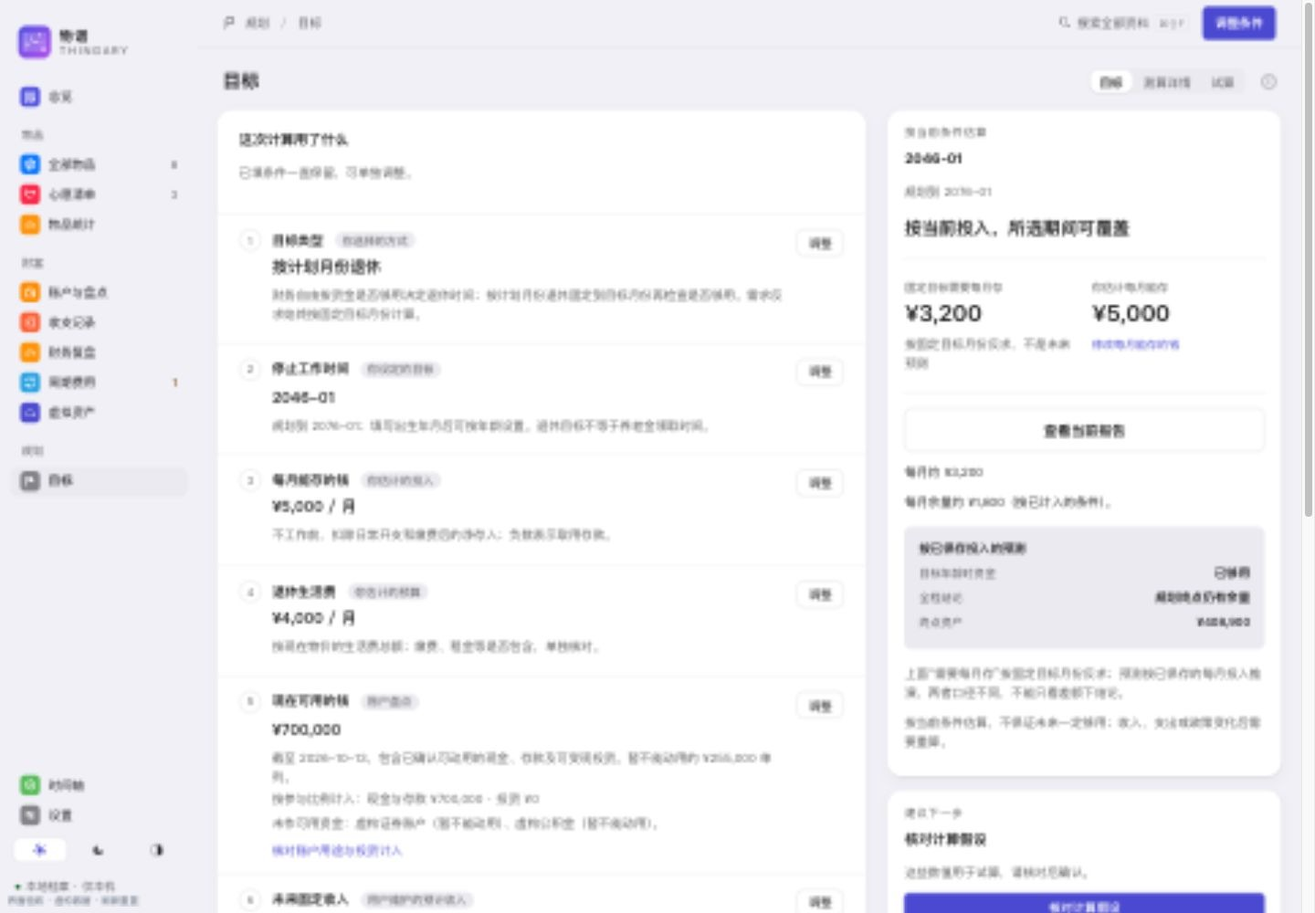
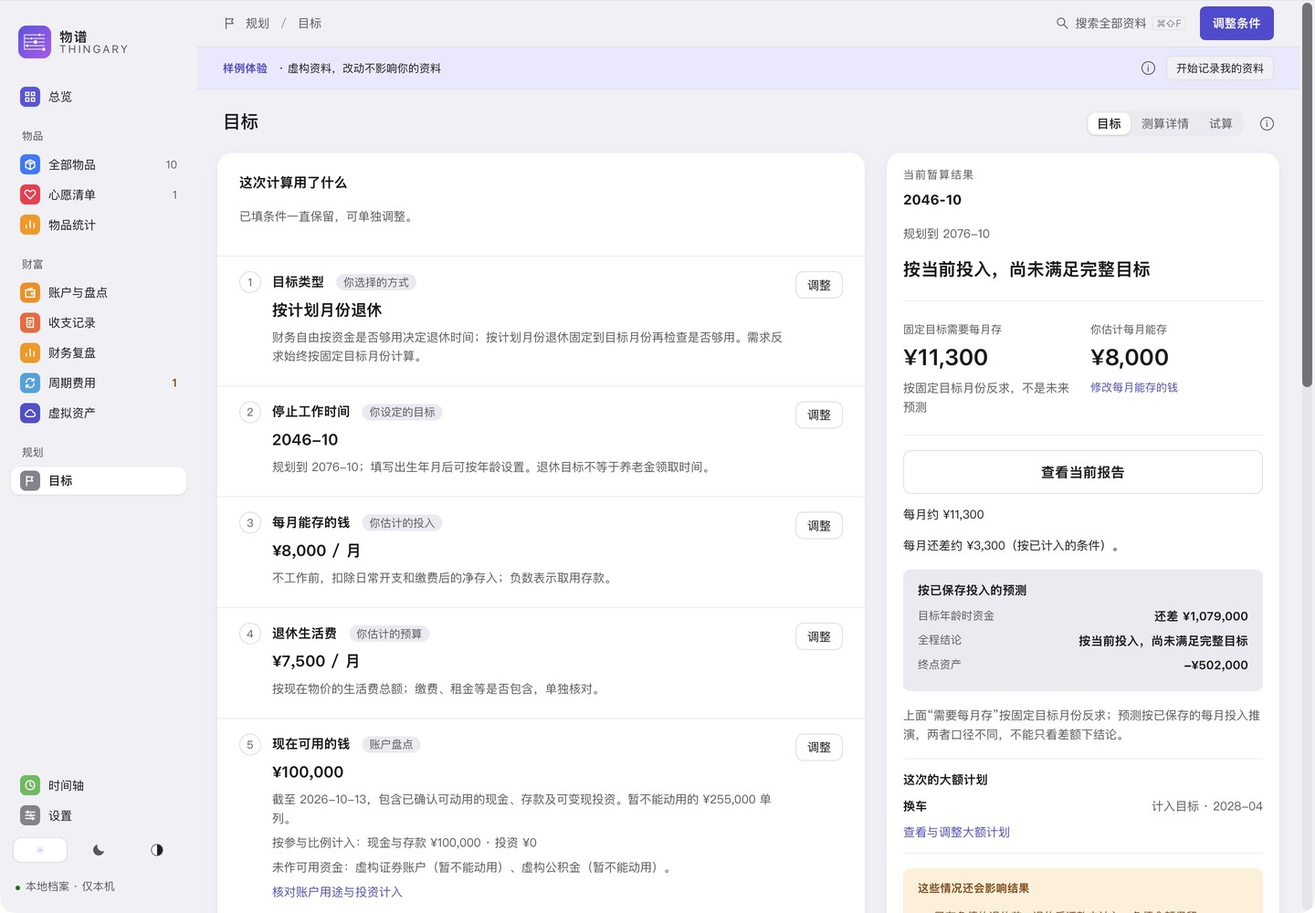
release: prepare Thingary 0.0.4 beta draft
Refresh positioning/navigation media from an isolated native app at 1440x1000,
including the 12-second navigation GIF, and record actual sample conditions.
Fix the stretched sample info icon and disabled-module attention read errors.
Add transaction rollback/retry coverage for schema 36->37 and 37->38.

Validation: npm run build; npm run test:ui (1059 pass); npm run check;
npm test (578 pass, 3 existing capacity tests ignored). Native isolated
v0.0.3/schema35 -> 0.0.4/schema39 direct upgrade, restart, old full backup
restore and restart preserve all 50 old fact tables/236 rows and image hashes.
Fresh isolated native record/account/snapshot/full-backup/restore/restart pass.
DMG read-only mount and copied bundle match the original, strict signatures
pass; offline guide images/anchors and license coverage pass. Main data was
never opened and the formal identity bundle was never launched.

Unverified: real-download Gatekeeper first launch, other Macs/OS versions,
Intel, VoiceOver, full keyboard/input-method matrix, notifications delivery,
and all added native interaction combinations. Draft is not public.

diff --git a/src/app-layout.css b/src/app-layout.css
@@ -5,7 +5,7 @@ button{border-radius:6px;font-weight:400}.primary{font-weight:600}.shell{grid-te
 .sidebar{padding:28px 12px 18px;gap:0;overflow-y:auto}.brand{padding:0;margin:0 8px 27px;gap:9px}.brand-mark{width:31px;height:31px;border:0;border-radius:10px;background:var(--text);color:var(--bg)}.brand-mark .ui-icon{width:21px;height:21px}.brand strong{font-size:15px;letter-spacing:1px;font-weight:600}.brand small{display:block;font:12px var(--display);letter-spacing:2px;margin-top:-3px}
 .sidebar nav{display:flex;flex-direction:column;gap:3px}.sidebar nav button{padding:8px 11px;gap:10px;font-size:13px;background:transparent;line-height:1.6;flex-shrink:0}.sidebar nav button:hover:not(:disabled){background:var(--soft)}.sidebar nav button.nav-active{background:var(--selected);color:var(--accent);font-weight:600}.nav-caption{margin:15px 12px 4px;color:var(--muted);font-size:12px;letter-spacing:1.1px}.sidebar-bottom{padding:0;margin-top:auto;padding-top:25px}.local-status{font-size:12px;white-space:normal;margin:12px 0 0;padding:0 5px}.local-dot{width:5px;height:5px;background:var(--positive)}
 .shell>main{padding:0;overflow:auto;min-width:0}.shell main :focus{scroll-margin-top:76px;scroll-margin-bottom:20px}.app-topbar{position:sticky;top:0;z-index:3;background:var(--bg);height:52px;min-height:52px;margin:0;padding:0 28px;border-bottom:1px solid var(--line);display:flex;align-items:center;justify-content:space-between;gap:12px}.breadcrumb{font-size:13px;white-space:nowrap;color:var(--muted);display:flex;align-items:center;gap:9px}.breadcrumb>span{opacity:.6}.topbar-actions{display:flex;align-items:center;gap:9px;min-width:0}.topbar-actions>.primary{display:flex;align-items:center;gap:6px;white-space:nowrap;font-size:13px;padding:7px 13px;line-height:1.6}.topbar-actions .topbar-secondary{display:flex;align-items:center;gap:6px;white-space:nowrap;font-size:13px;padding:7px 13px;line-height:1.6}.topbar-actions kbd{border:1px solid var(--line);border-radius:3px;padding:0 4px;font-size:12px;margin:0}.topbar-actions .search{width:200px;min-width:120px;flex:initial;background:var(--soft);border:1px solid var(--line);border-radius:6px;padding:5px 9px;gap:7px}.search .ui-icon{width:14px;height:14px;color:var(--muted)}.topbar-actions .search input{padding:0;font-size:13px;line-height:1.6}.search kbd{border:1px solid var(--line);border-radius:3px;padding:0 4px;font-size:12px;margin:0}.search input:focus-visible{outline-offset:1px;outline-width:2px}.search-clear{display:flex;align-items:center;justify-content:center;width:20px;height:20px;padding:0;border:0;background:transparent;color:var(--muted);flex-shrink:0}.search-clear svg{width:12px;height:12px}.search-clear:hover{color:var(--text)}.search-collapsed{display:none}
-.demo-banner{display:flex;align-items:center;gap:12px;flex-wrap:wrap;padding:9px 28px;background:var(--selected);border-bottom:1px solid var(--line);font-size:12px;flex-shrink:0}.demo-banner strong{color:var(--accent);white-space:nowrap}.demo-banner span{flex:1;min-width:180px}.demo-banner button{padding:5px 10px;background:var(--bg);border:1px solid var(--line);font-size:12px;white-space:nowrap}
+.demo-banner{display:flex;align-items:center;gap:12px;flex-wrap:wrap;padding:9px 28px;background:var(--selected);border-bottom:1px solid var(--line);font-size:12px;flex-shrink:0}.demo-banner strong{color:var(--accent);white-space:nowrap}.demo-banner>span:not(.info-tip){flex:1;min-width:180px}.demo-banner>.info-tip{flex:none;min-width:15px;margin-left:0}.demo-banner button{padding:5px 10px;background:var(--bg);border:1px solid var(--line);font-size:12px;white-space:nowrap}
 .page-header{padding:22px 28px 14px;margin:0;justify-content:flex-start;align-items:baseline;gap:12px}.page-header h1{font:600 20px/1.3 var(--display);letter-spacing:var(--h-track,0)}.page-meta{color:var(--muted)}
 .asset-overview{display:grid;grid-template-columns:1fr 1.5fr 1fr;border:1px solid var(--line);border-radius:10px;margin:0 28px 24px;padding:17px 0;background:var(--bg)}.asset-overview>div{padding:0 22px;min-width:0}.asset-overview>div+div{border-left:1px solid var(--line)}.asset-overview span{font-size:12px;color:var(--muted)}.asset-overview strong{display:block;margin:5px 0;font:500 20px/1.3 var(--display);letter-spacing:-.5px;font-variant-numeric:tabular-nums;overflow-wrap:anywhere}.asset-overview strong small{font:12px 'PingFang SC',sans-serif;color:var(--muted);margin-left:6px;letter-spacing:0}.asset-overview p{font-size:12px;color:var(--muted);margin:5px 0 0}
 .browser-columns{display:grid;grid-template-columns:minmax(0,1fr) 288px;gap:0;border-top:1px solid var(--line);min-height:450px}.collection{min-width:0;overflow-anchor:none}.collection-toolbar{display:flex;justify-content:space-between;gap:8px;align-items:center;padding:15px 24px 13px}.view-controls{display:flex;align-items:center;gap:8px}.segmented{padding:0;gap:3px;border:0;border-radius:0;background:transparent}.segmented button{padding:5px;width:26px;height:26px;border-radius:6px;color:var(--muted)}.segmented [aria-pressed=true]{background:var(--soft);color:var(--text)}

diff --git a/src/ReviewView.tsx b/src/ReviewView.tsx
@@ -14,7 +14,7 @@ import type { FinanceRoute } from './finance-navigation';
 import type { PlanningTab } from './PlanningPage';
 import { useRestored } from './undo';
 import { ReviewPlanSummary } from './ReviewPlanSummary';
-import { attention, latestComplete, rangePoints, rangeUsable, ready, recallTrendRange, rememberTrendRange, requestGate, structureCompareRange, structureRows, trendRanges } from './review';
+import { attention, attentionSourcesReady, latestComplete, rangePoints, rangeUsable, ready, recallTrendRange, rememberTrendRange, requestGate, structureCompareRange, structureRows, trendRanges } from './review';
 import type { Read, Review, ReviewPage, TrendRange } from './review';
 import { Info } from './FormControls';
 import { DailyCostMetric } from './DailyCostMetric';
@@ -181,8 +181,8 @@ export function ReviewView({ generation, today, version, year, onYear, onNavigat
     <div className="review-lists">
       <article className="ui-card">
         <div className="ui-section-head"><h3>待关注</h3><span className="ui-aside">{groups.length ? `${groups.length} 项` : ''}<Info text="只列出需要你确认或即将到期的事项；不会自动付款。"/></span></div>
-        {[data.wealth, data.recurring, data.virtual_assets].some(src => src.status === 'error') && <div className="ui-error" role="alert">部分来源读取失败，事项可能不完整。<button onClick={reload}>重试</button></div>}
-        {!groups.length ? <p className="ui-empty">{[data.wealth, data.recurring, data.virtual_assets].every(src => src.status === 'ready') ? '暂时没有需要关注的事项。' : '可用来源中暂无事项。'}</p> : <ul className="ui-rows">{groups.slice(0, 5).map(g => <li key={g.id} className="ui-row"><span className={'ui-dot' + (g.priority <= 1 ? ' warn' : '')}/><div className="ui-main"><div>{g.title}</div>{g.details.map(d => <small key={d}>{d}</small>)}</div><span className="review-links">{g.entries.map((entry, i) => <button key={i} className="ui-link" onClick={() => onOpenSource(entry.target)}>{entry.action} →</button>)}</span></li>)}</ul>}
+        {!attentionSourcesReady(data, modules) && <div className="ui-error" role="alert">部分来源读取失败，事项可能不完整。<button onClick={reload}>重试</button></div>}
+        {!groups.length ? <p className="ui-empty">{attentionSourcesReady(data, modules) ? '暂时没有需要关注的事项。' : '可用来源中暂无事项。'}</p> : <ul className="ui-rows">{groups.slice(0, 5).map(g => <li key={g.id} className="ui-row"><span className={'ui-dot' + (g.priority <= 1 ? ' warn' : '')}/><div className="ui-main"><div>{g.title}</div>{g.details.map(d => <small key={d}>{d}</small>)}</div><span className="review-links">{g.entries.map((entry, i) => <button key={i} className="ui-link" onClick={() => onOpenSource(entry.target)}>{entry.action} →</button>)}</span></li>)}</ul>}
         {groups.length > 5 && <p className="ui-card-foot">还有 {groups.length - 5} 项，请在对应模块查看。</p>}
       </article>
       <article className="ui-card">

diff --git a/src/review.ts b/src/review.ts
@@ -12,6 +12,12 @@ export type Read<T> = { status: 'ready'; value: T } | { status: 'error'; value: 
 export type Review = { generation: string; today: string; year: number | null; physical: Read<OverviewData>; wealth: Read<Summary>; expenses: Read<ExpenseView>; recurring: Read<Recurring>; virtual_assets: Read<VirtualOverview>; recent: Read<TimelineEvent[]>; planning?: PlanSources | null };
 export type ReviewPage = 'wealth' | 'assets' | 'expenses' | 'recurring' | 'virtual' | 'timeline';
 export const ready = <T,>(r: Read<T> | undefined): T | undefined => r?.status === 'ready' ? r.value : undefined;
+/** Disabled modules are intentionally unread; only enabled attention sources can fail. */
+export function attentionSourcesReady(review: Review, modules: Modules = allModules): boolean {
+  return (!modules.wealth || review.wealth.status === 'ready')
+    && (!modules.recurring || review.recurring.status === 'ready')
+    && (!modules.virtual || review.virtual_assets.status === 'ready');
+}
 export const overviewView = (value: string | null) => value === 'physical' ? 'physical' : 'combined';
 export function latestComplete(points: Point[]) { return points.filter(p => p.complete).at(-1); }
 

diff --git a/src-tauri/tests/helpers/planning_migration.rs b/src-tauri/tests/helpers/planning_migration.rs
@@ -706,3 +706,124 @@ fn schema36_income_receipts_upgrade_and_backup_preserve_original_facts() {
     assert_eq!(replay.revision, row.revision);
     assert!(!replay.classification_changed);
 }
+
+fn assert_incremental_migration_rolls_back_then_retries(version: i64) {
+    let d = tempfile::tempdir().unwrap();
+    let root = d.path().join("fictional");
+    let (s, _) = seed(&root);
+    let profile = serde_json::to_value(s.plan_profile().unwrap().saved.unwrap().profile).unwrap();
+    let stage = d.path().join("old");
+    snapshot_db(&s, &stage, &profile, 36);
+    let c = Connection::open(stage.join("data.sqlite")).unwrap();
+    migrate_to(&c, version, &|_| Ok(())).unwrap();
+    let files = dataset(&root).join("files");
+    let before = manifest(&c, &files);
+    let profile_before: (String, i64, String) = c
+        .query_row(
+            "SELECT payload,revision,updated_at FROM plan_profile",
+            [],
+            |r| Ok((r.get(0)?, r.get(1)?, r.get(2)?)),
+        )
+        .unwrap();
+    let schema = |c: &Connection| {
+        c.prepare("SELECT type,name,tbl_name,sql FROM sqlite_master ORDER BY type,name")
+            .unwrap()
+            .query_map([], |r| {
+                Ok((
+                    r.get::<_, String>(0)?,
+                    r.get::<_, String>(1)?,
+                    r.get::<_, String>(2)?,
+                    r.get::<_, Option<String>>(3)?,
+                ))
+            })
+            .unwrap()
+            .collect::<Result<Vec<_>, _>>()
+            .unwrap()
+    };
+    let schema_before = schema(&c);
+    assert!(migrate_to(&c, version + 1, &|point| {
+        if point == "migration.before_commit" {
+            Err(Error::new("INJECTED", "虚构迁移提交前中断"))
+        } else {
+            Ok(())
+        }
+    })
+    .is_err());
+    assert_eq!(
+        c.query_row("PRAGMA user_version", [], |r| r.get::<_, i64>(0))
+            .unwrap(),
+        version
+    );
+    // Exact DDL equality includes rollback of every new table, index and income column.
+    assert_eq!(schema(&c), schema_before);
+    assert_eq!(manifest(&c, &files), before);
+    assert_eq!(
+        c.query_row(
+            "SELECT payload,revision,updated_at FROM plan_profile",
+            [],
+            |r| {
+                Ok((
+                    r.get::<_, String>(0)?,
+                    r.get::<_, i64>(1)?,
+                    r.get::<_, String>(2)?,
+                ))
+            }
+        )
+        .unwrap(),
+        profile_before
+    );
+    migrate_to(&c, version + 1, &|_| Ok(())).unwrap();
+    assert_eq!(
+        c.query_row("PRAGMA user_version", [], |r| r.get::<_, i64>(0))
+            .unwrap(),
+        version + 1
+    );
+    assert_eq!(manifest(&c, &files), before);
+    assert_eq!(
+        c.query_row(
+            "SELECT payload,revision,updated_at FROM plan_profile",
+            [],
+            |r| {
+                Ok((
+                    r.get::<_, String>(0)?,
+                    r.get::<_, i64>(1)?,
+                    r.get::<_, String>(2)?,
+                ))
+            }
+        )
+        .unwrap(),
+        profile_before
+    );
+    let new_table = if version == 36 {
+        "investment_flows"
+    } else {
+        "plan_assumption_checks"
+    };
+    assert_eq!(
+        c.query_row(&format!("SELECT COUNT(*) FROM {new_table}"), [], |r| {
+            r.get::<_, i64>(0)
+        })
+        .unwrap(),
+        0
+    );
+    if version == 36 {
+        let invalid_defaults: i64 = c
+            .query_row(
+                "SELECT COUNT(*) FROM plan_income WHERE category!='unclassified' OR source_account_id IS NOT NULL OR destination IS NOT NULL OR receiving_account_id IS NOT NULL OR classification_changed!=0",
+                [],
+                |r| r.get(0),
+            )
+            .unwrap();
+        assert_eq!(invalid_defaults, 0);
+    }
+}
+
+#[test]
+fn schema36_to37_before_commit_rolls_back_all_facts_and_schema_then_retries() {
+    assert_incremental_migration_rolls_back_then_retries(36);
+}
+
+#[test]
+fn schema37_to38_before_commit_rolls_back_all_facts_and_schema_then_retries() {
+    assert_incremental_migration_rolls_back_then_retries(37);
+}

diff --git a/docs/releases/v0.0.4.md b/docs/releases/v0.0.4.md
@@ -1,0 +1,48 @@
+# 物谱 0.0.4 Beta · 测试版草稿
+
+本版准备为 GitHub **draft Pre-release**，尚未公开。维护者确认后再开放附件下载；目前普通用户仍使用 [0.0.3](https://github.com/CoderJackZhu/Thingary/releases/tag/v0.0.3)。
+
+## 下载与支持范围
+
+公开后在 [v0.0.4 Release](https://github.com/CoderJackZhu/Thingary/releases/tag/v0.0.4) 的 Assets 下载 `Thingary-0.0.4-arm64.dmg`。包内有「物谱.app」、Applications 快捷方式、图文离线指南和完整许可材料；`SHA256SUMS.txt` 用于完整性校验，Source code 是源码。
+
+仅提供 **Apple Silicon Mac** 安装包，只在 macOS 27 实测。最低打包目标为 macOS 14，其他系统、Intel 与其他 Mac 未验。采用本地临时签名，**未经过 Developer ID 签名和 Apple 公证**；真实下载后的 Gatekeeper 首开未验。安装与更新见[使用指南](https://github.com/CoderJackZhu/Thingary/blob/v0.0.4/docs/USER_GUIDE.md#download)。
+
+## 本次更新
+
+- **物品与起步**：物品侧栏收为全部物品、心愿清单和物品统计，状态在列表切换。新增首屏只保留名称、价格、日期、备注和图片，补充资料按需展开；购买日期默认未知。首次使用可独立选择整理物品或盘点账户，明确选择后才隐藏辅助模块；无账户时可直接进入已有表格导入。修复样例说明图标被横幅拉宽的问题。
+- **财富记录与复盘**：账户与盘点、收支记录、财务复盘各有入口；实际收入和资金流动独立于目标开关。收入可分类，投资区间核对区分转入／转出与损益金额，未知不当作零，分红不重复计入。不提供证券账本、行情或收益率。
+- **通用规划**：退出地区社保、医保及养老金待遇测算，改用目标月份、生活预算、资金起点和未来收入。官方复杂测算保留工具入口，外部测算结果可手填为未来收入；公积金、个人养老金账户和实际收入保留。市场模拟、压力测试和深入分析继续提供。
+- **目标、详情与试算**：页内分为目标、测算详情和试算。目标保留已保存条件与结论；详情集中轨迹和快照；试算提供心愿影响、职业变化及资金续航。试算不改保存条件，心愿不自动计入目标。新增假设核对与可选流动明细来源，沿用确认失效及回执约束。
+- **只读报告与交互**：当前报告默认隐私，可切换完整数值和复制摘要，在结论旁显示影响事项数量；关闭不保存报告。改进条件提示、职业复选框间距、来源返回及财富未知保存结果的重启核对入口。周期付款和复盘来源分页不改变全量汇总；关闭辅助模块后不再把未读取来源误报为读取失败。
+
+## 更新与资料兼容
+
+更新前先做完整备份并异地保存，退出旧包，再手动替换应用。正式资料身份保持 `local.thingary.main`；本轮验收始终使用全新隔离身份，未启动正式身份包或访问正式资料库。
+
+数据库从 0.0.3 的 **schema 35** 升至 **39**：36 退出旧政策输入，37 增加收入分类与投资区间核对，38 增加假设确认，39 增加资金流动及复盘来源。物品、心愿、账户、盘点、实际收入、金额、未知值、稳定 ID、关联、图片和保障保留。旧政策规划的月份与未来收入需重新确认，不把旧年龄／待遇选择自动当成通用规划确认；有语义变化的规划修订递增，原更新时间及历史回执保留。
+
+**旧版不能直接打开已升级资料或新版备份。** 降低应用版本号不会降低数据格式；回退必须使用升级前、与旧版兼容的完整备份。恢复是整体替换，不是合并；Excel 不包含全部图片与关系，不能替代完整备份。
+
+本轮从 `v0.0.3` 标签源码构建隔离旧包，由原生应用生成内置虚构样例，再复制到同身份的空个人库作为兼容夹具。旧包原生保存完整备份后，依次验证新包直接升级、重启、原生选择并恢复旧完整备份及恢复后重启。50 张旧事实表的 236 行全部原字段保持；8 个原图及 16 个缓存图片散列一致，旧备份字节未变。直接升级保持资料集 ID 与 generation，恢复按现行设计更换二者；外键和数据库完整性检查通过。新确认、资金流动与投资来源表为空，没有自动生成确认或交易。
+
+## 验证与限制
+
+本轮运行前端构建、**1,059 项 UI 测试**、Rust 格式／Clippy 和 **578 项 Rust 测试**；3 项既有容量测试按原规则忽略。增加 36→37、37→38 提交前故障回滚与重试测试，结合既有 35→36、38→39、旧 schema35 备份恢复及新备份往返测试覆盖迁移边界。自动检查不替代原生交互。
+
+截图使用全新隔离身份的真实 WebView 与内置虚构样例，来源和捕获尺寸见[截图清单](https://github.com/CoderJackZhu/Thingary/blob/v0.0.4/docs/images/README.md)。本轮原生走查通过首次样例、切换空个人库、表单取消、仅名称物品保存（价格／日期未知）、新建现金账户、10,000 元完整盘点、手动完整备份及恢复、重启保留。隐藏辅助模块后的总览提示和样例说明图标已在最终包原生复验。
+
+正式包的 0.0.4 版本、正式身份、纯 arm64 与严格签名通过静态核验；只读挂载包、原始构建包与临时复制包的全部文件及符号链接一致。离线指南 17 个图片元素与 13 个内部链接检查通过，许可全文覆盖 297 项清单记录，来源散列核验通过；包内没有数据库、备份、测试资料或凭据。核验未启动正式身份包。
+
+VoiceOver、完整键盘／输入法组合、系统通知送达、其他 Mac／系统和真实下载首开未验；全部新增功能的原生完整交互尚未闭环。资料及备份未加密，无跨设备同步、自动更新、交易或自动付款。规划与模拟是假设测算，路径占比不代表现实成功概率；详见[当前限制](https://github.com/CoderJackZhu/Thingary/blob/v0.0.4/docs/USER_GUIDE.md#limits)。
+
+代码按 GPL-3.0-or-later 授权，名称与图标使用权保留。对应源码、锁文件及构建脚本由同标签 Source code 提供，第三方告知与许可全文随 DMG 提供。问题请用虚构资料提交 [Issue](https://github.com/CoderJackZhu/Thingary/issues)；安全问题按[安全政策](https://github.com/CoderJackZhu/Thingary/blob/v0.0.4/SECURITY.md)私下报告。
+
+## 校验散列
+
+安装包：`Thingary-0.0.4-arm64.dmg`。
+
+- 文件大小：**15,509,995 字节**（约 14.79 MiB）。
[1 lines of base64/hex data omitted]
+
+SHA-256 只证明完整性，不是来源认证签名。

diff --git a/docs/images/README.md b/docs/images/README.md
@@ -2,25 +2,25 @@
 
 ## 当前定位与导航截图
 
-2026-10-13 按[定位、导航与首次使用设计](../POSITIONING_NAVIGATION_DESIGN.md)更新下表图片。源码基线为 `main / 9de8af2`（第 1–6 步交互已提交，第 7 步只同步文档与媒体），没有推送或发布新包。
+2026-10-13 为 0.0.4 草稿测试版重新拍摄下表全部 8 张 JPEG、报告 PNG 与 GIF。界面基线为 `3fb3f8c2550cc9c8298b54d1867dd91f510b2f2b` 加本版样例说明图标与关闭模块错误提示修正；对应源码以 `v0.0.4` 标签为准。草稿尚未公开。
 
-这些图片来自 **Codex 内置浏览器的内存虚构预览**，不读取任何原生资料库，不证明原生保存、系统文件或完整无障碍验收。Ego Lite 页面操作可用，但其截图及备用 Chrome CDP 截图接口超时，因此截图改用内置浏览器。JPEG 为实际 **1440×1000 CSS 像素**视口捕获后直接转换，未拼改界面、文字或数字；浅色／深色使用 Bento。报告 PNG 为 1280×720。
+这些图片来自 **真实 macOS 原生 WebView**，用电脑操控工具捕获。全新身份为 `local.thingary.release004.screens20261013`，不使用 `local.thingary.main` 或已有个人资料。样例由应用内置虚构样例库生成：10 件物品、5 个在用账户，2026-10-13 完整盘点金融净资产 350,000 元。保留 2 件金额未知、5 项规划条件待确认，以及报告的 6 项影响事项，不伪造确认或计算结果。
 
-公共复现入口为 `npm run dev -- --port 1429` 后的 `/visual-preview.html`；以下列出全部查询参数。总览视图在页面上明确选择“综合”。所有金额、日期和未知均保留夹具的真实展示与纯计算结果。
[1 lines of base64/hex data omitted]
 
-| 当前文件 | 查询参数／实际状态 |
+| 当前文件 | 实际原生状态／操作 |
 |---|---|
-| `overview-light.jpg`、`overview-dark.jpg` | `section=overview&plan-basic=saved&capabilities=real&plan-core=confirmed&style=bento&theme=light|dark`；综合总览、已保存目标与单一紧凑说明 |
-| `assets-light.jpg` | `section=assets&style=bento&theme=light`；全部物品，侧栏三入口、列表状态分段，价格／日期未知保留 |
-| `first-item-form.jpg` | 同上，点新增物品；填虚构“我的笔记本电脑”、价格 5000，日期留空、补充更多收起；拍后关闭不保存 |
-| `planning-goals.jpg` | `section=planning&plan-basic=saved&capabilities=real&plan-core=confirmed&style=bento&theme=light`；目标标签、已保存条件与结论、大额计划 |
-| `planning-detail.jpg` | 同上，切到测算详情；需求、轨迹与详情内容，不去除缺项或假设提示 |
-| `planning-trial.jpg` | 同上，切到试算；心愿影响、职业入口和临时资金续航 |
-| `start-choice.jpg` | `section=overview&started=first-use&state=empty&wealth=empty&style=bento&theme=light`；未开始虚构资料，辅助模块复选框默认勾选 |
-| `planning-report-current.png` | `section=planning&plan-basic=saved&capabilities=real&plan-core=partial&style=bento&theme=light`；打开当前报告，默认隐私，结论旁保留 1 项影响事项提示 |
-| `overview-to-goals.gif` | 与浅色总览相同的一次页面操作：总览 → 侧栏账户与盘点 → 侧栏目标。三张实际截图各停留 4 秒，总长 **12 秒**；是内存虚构页面演示，不是原生盘点保存录像 |
+| `overview-light.jpg`、`overview-dark.jpg` | 内置样例、综合总览；依次选浅色／深色，单一紧凑说明与圆形说明图标 |
+| `assets-light.jpg` | 样例全部物品；侧栏三入口、列表状态分段、价格／日期未知保留 |
+| `first-item-form.jpg` | 切到同身份全新空个人库，点“先整理物品”；虚构“我的笔记本电脑”、价格 5000，日期留空、补充更多收起；拍后关闭不保存 |
+| `planning-goals.jpg` | 内置样例的目标标签，已保存条件、暂算结论及大额计划，未核对条件保留 |
+| `planning-detail.jpg` | 同样例切到测算详情；需求与轨迹，保留假设及待核对提示 |
+| `planning-trial.jpg` | 同样例切到试算；心愿影响、职业入口、临时资金续航 |
+| `start-choice.jpg` | 切到同身份全新空个人库；两条起步路径，辅助模块复选框默认勾选；在首次表单前拍摄 |
+| `planning-report-current.png` | 同样例打开当前报告，默认隐私；结论旁实际显示 6 项影响事项 |
+| `overview-to-goals.gif` | 同一原生样例中操作：综合总览 → 账户与盘点 → 目标。三张实际截图各停留 4 秒，总长 **12 秒**；是真实页面操作三帧演示，不是盘点保存录像 |
 
-同尺寸前后对照及物品正常／空白／筛选无结果／读取失败、规划未设置／已设置／投入未知／读取失败／待确认回执、宽窄明暗和复选框键盘焦点的完整证据另存维护者档案。公开目录仅保留使用指南需要的图片。
+原图、逐张界面状态、文件散列和发布验收记录另存维护者档案。公开目录只保留使用指南需要的图片。下列历史原生图未在本次重拍，涉及旧入口时以当前正文与上表为准。
 
 ## 保留的原生截图
 

diff --git a/CHANGELOG.md b/CHANGELOG.md
@@ -2,16 +2,19 @@
 
 用户下载见 [Releases](https://github.com/CoderJackZhu/Thingary/releases)，操作和更新见[使用指南](docs/USER_GUIDE.md)。这里记录用户可感知的变化，开发执行流水另存维护者档案。
 
-## 当前源码与本机更新 — 尚未另行公开发布
+## 0.0.4 Beta — 2026-10-13（草稿，未公开）
+
+本版准备为 GitHub draft Pre-release，待维护者确认后公开；目前普通用户仍下载 0.0.3。验证与升级兼容边界见[0.0.4 发布说明](docs/releases/v0.0.4.md)。
 
 - 物品侧栏收为全部物品、心愿清单与物品统计；使用中、已退役和已售出改在列表工具栏切换，保障条件在筛选中选择。切换状态保留分类、标签、搜索与排序，资料待补充筛选与状态互斥，标题和详情返回保持一致。
 - 规划页内分为“目标／测算详情／试算”：目标保留已保存条件、结论与大额计划；测算详情展示轨迹、快照和风险；试算集中提供心愿影响、职业变化与资金续航。心愿只比较影响，不自动计入目标，临时试算不改保存的条件。
 - 自己的资料尚未开始时，总览提供整理物品或盘点账户两个起点；可明确选择先隐藏周期费用与虚拟资产，其余模块保留当前设置。无账户时优先提供已有资产表格导入，沿用设置的数据管理对话框；样例横幅收为简短说明与完整规则入口。
 - 新增物品首屏保留名称、价格、日期、备注与图片，分类、渠道、成本、保障和品牌型号等统一放入“补充更多”；已有补充资料和折叠内校验错误自动展开。新建购买日期默认留空，心愿转购入仍默认今天。
 - 当前报告在结论旁提示影响事项数量；目标摘要合并重复声明，账户比较、暂时取不出的钱与计划实际发生核对改用直接文案。职业试算确认复选框复用现有布局，改善焦点与文字间距。
+- 修复样例横幅说明图标被拉宽，以及关闭辅助模块后总览把未读取来源误报为读取失败；已启用来源的真实读取失败仍保留。
 
 - 规划改用通用目标时间、生活预算、资金起点与未来收入。删除地区社保、医保、缴费与待遇估算，保留官方工具入口；用户可把外部测算结果作为未来月收入维护。市场模拟与假设分析继续保留。
-- schema 36/37 升级保留物品、账户、盘点、个人养老金／公积金资产及实际收入等客观事实，退出旧政策输入；旧政策计划需要按通用模型重新确认。旧版应用不能直接打开升级后的资料，回退须使用兼容的升级前备份。
+- 数据库从 0.0.3 的 schema 35 升至 39。schema 36/37 保留物品、账户、盘点、个人养老金／公积金资产及实际收入等客观事实，退出旧政策输入；旧政策计划需要按通用模型重新确认。schema 38/39 增加假设核对与资金流动，不自动生成确认或交易。旧版应用不能直接打开升级后的资料，回退须使用兼容的升级前备份。
 - 实际收入支持来源分类；投资复盘通过区间转入／转出核对区分资金流动与损益，未知不当作零，分红不会重复加到资产或损益。
 - 规划新增四字段假设核对；可选资金流动可作为投资区间核对来源，与手填互斥，保留原有确认、失效与回执规则。
 - 财富下统一为账户与盘点、收支记录（收入／重要支出／资金流动）、财务复盘（本期复盘／盘点比较）三个入口，规划仅保留目标；收入与资金流动改为独立于目标的模块开关，旧设置按原目标开关一次性继承。复盘先显示结果、详细依据按需展开。逐年快照横跨内容区，窗口默认最大1600×1000并记住普通尺寸。

diff --git a/docs/DEVELOPMENT.md b/docs/DEVELOPMENT.md
@@ -34,6 +34,12 @@ npm test
 
 故障注入 feature 只用于测试，不进入普通应用。检查结果按本次实际执行登记；测试文件存在、历史通过或源码提交不代表当前工作树已通过。文案／样式核对受影响页面与断点；表单验证保存、取消、未知与失败；计算运行对应数值和调用链回归。纯文档检查链接、锚点、术语和离线交付依赖。
 
+### 0.0.4 草稿发布验证
+
+本轮构建、1,059 项 UI 测试、格式／Clippy 和 578 项 Rust 测试通过，3 项既有容量测试按原规则忽略。新增 36→37、37→38 提交前故障回滚与重试测试；总览待关注的来源完整性只检查已启用模块，回归覆盖隐藏来源及已启用来源真实失败。样例横幅说明图标的拉伸已修正并原生复验。
+
+全新隔离身份完成 v0.0.3 原生生成虚构资料、schema35→39 直接升级、重启、旧完整备份原生恢复及恢复后重启；50 张旧事实表、236 行旧字段与 8 个原图／16 个缓存图片一致。另完成样例→空个人库→取消／保存物品→账户→完整盘点→手动备份／恢复→重启保留，未知金额和日期保持为空。发布截图为真实原生捕获，来源见[截图清单](images/README.md)。完整键盘／输入法、VoiceOver、其他系统、通知送达和下载后 Gatekeeper 首开仍未验；交付状态见[0.0.4 说明](releases/v0.0.4.md)。未启动正式身份包或访问正式库。
+
 ### 定位、导航与首次使用验证
 
 [定位与导航设计](POSITIONING_NAVIGATION_DESIGN.md)的七步已在当前源码实施，不改变 schema、备份／Excel、模块默认值或计算口径。物品状态分段与标题回归在 `collection-navigation`；规划视图、修正聚焦与阻断在 `planning-detail-navigation`／`planning-current-report`；起步载荷、存储失败及总览视图意图消费在 `start-choice`；表单折叠与默认空日期在 `asset-editor-layout`；来源返回在 `planning-source-navigation`。每步分别运行构建、UI、格式／Clippy 与 Rust 检查；最终 UI 1,057 项通过，Rust 576 项通过、3 项容量测试按原规则忽略。

diff --git a/docs/RELEASING.md b/docs/RELEASING.md
@@ -27,6 +27,8 @@ schema 34/35 的金融历史导入升级检查还须覆盖：
 
 schema 35 起新版完整备份不能被旧版应用打开，不能靠降低应用版本号回退数据格式；降级须使用升级前且与旧版兼容的备份。`x11.sql` 在事务内重建可空缴存和收入外部键 CHECK，保留既有 0、ID、修订、时间及删除状态；须验证 34→35、33→35、旧 34 回执与完整备份恢复，以及替表中途故障后旧表／全部数据完好且版本仍为 34。提交前必须执行 `PRAGMA foreign_key_check`。
 
+当前 schema35→39 升级还须覆盖：35→36 退出政策输入但保留客观事实及旧回执；36→37 新收入分类保持未分类／空引用，投资核对表为空；37→38 不自动确认假设；38→39 不自动生成资金流动或复盘来源。逐段提交前故障须回滚旧版本、DDL 与事实，随后重试成功。旧 schema35 完整备份可严格检查、恢复并升级，源备份不改写；旧规划月份与未来收入需要重新确认。降级仍须恢复与旧包兼容的升级前备份，不能直接打开 schema39 库。
+
 ## 2. 构建与制作安装包
 
 ```sh

diff --git a/README.md b/README.md
@@ -10,7 +10,7 @@
 
 **[0.0.3 公开测试版 · Apple Silicon Mac](https://github.com/CoderJackZhu/Thingary/releases/tag/v0.0.3)** · [图文使用指南](docs/USER_GUIDE.md#download) · [版本说明](https://github.com/CoderJackZhu/Thingary/releases/tag/v0.0.3) · [反馈问题](https://github.com/CoderJackZhu/Thingary/issues)
 
-> 0.0.3 已公开提供 Apple Silicon 测试版 DMG。下载以 Release 的公开附件为准。主分支文档描述当前源码，后续接入的财务工作区、简化规划与报告预览不代表既有安装包已经更新。
+> 0.0.3 已公开提供 Apple Silicon 测试版 DMG。下载以 Release 的公开附件为准。0.0.4 准备为草稿测试版，尚未公开；主分支的财务工作区、简化规划与报告预览不代表 0.0.3 安装包已经更新。维护者确认后再开放新版本下载。
 
 ![物谱总览：净资产趋势、退休目标与物品档案](docs/images/overview-light.jpg)
 

diff --git a/docs/USER_GUIDE.md b/docs/USER_GUIDE.md
@@ -8,6 +8,8 @@
 
 本说明的下载与安装步骤对应 **0.0.3 公开测试版**，用于收集使用与兼容性反馈。安装包与版本说明见 [0.0.3 Release](https://github.com/CoderJackZhu/Thingary/releases/tag/v0.0.3)。若某个版本没有 DMG 附件，说明该版本尚未提供安装包；维护者的本机安装状态不代表已公开发布。
 
+0.0.4 已准备为草稿测试版，尚未公开下载；本页当前操作及新原生截图对应 0.0.4 源码，不能据此推定 0.0.3 包含新功能。更新兼容性与验证范围见[0.0.4 发布说明](https://github.com/CoderJackZhu/Thingary/blob/v0.0.4/docs/releases/v0.0.4.md)，待维护者确认后再开放新版。
+
 <a id="download"></a>
 
 ## 下载、安装与首次打开

diff --git a/docs/PRODUCT_RULES.md b/docs/PRODUCT_RULES.md
@@ -18,6 +18,8 @@
 
 无账户时，“账户与盘点”优先提供已有资产表格导入，其次手动添加第一个账户。金融导入仍由设置的数据管理托管，沿用现有表格格式、回执与恢复语义。
 
+总览待关注的完整性提示只检查已启用的财富、周期费用与虚拟资产来源；关闭模块而未读取不表示读取失败，已启用来源失败时仍提示可能不完整并提供重试。
+
 ## 金额、日期与未知值
 
 - 当前以人民币 CNY 记录，不提供汇率或多币种计算。金额用整数分保存，展示时舍入；不能用浮点数累计金额。
